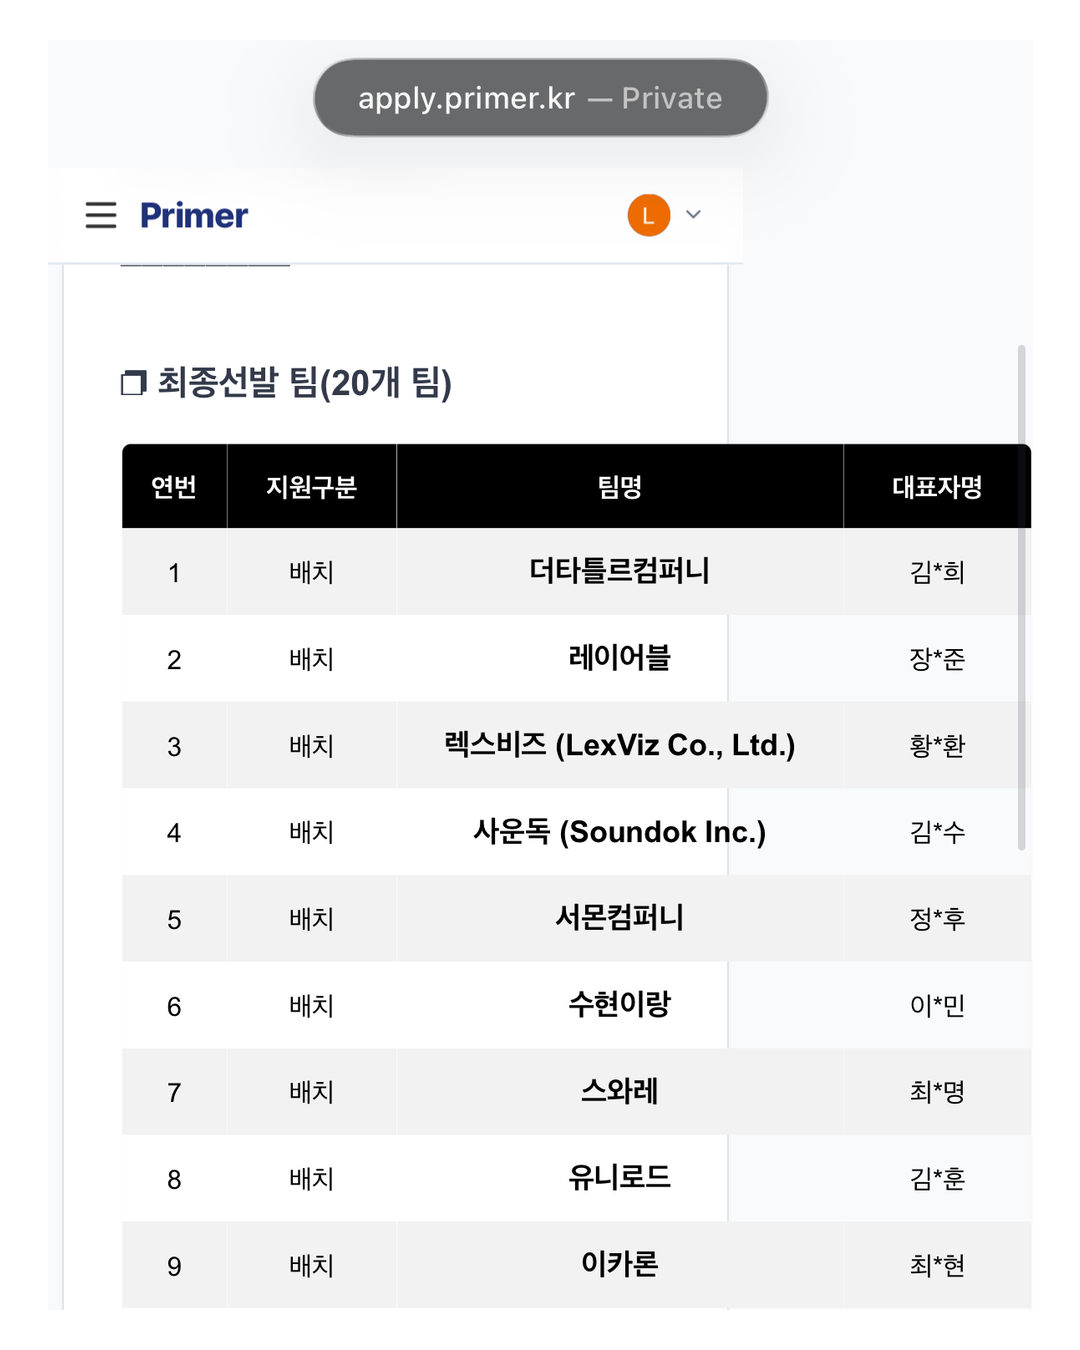
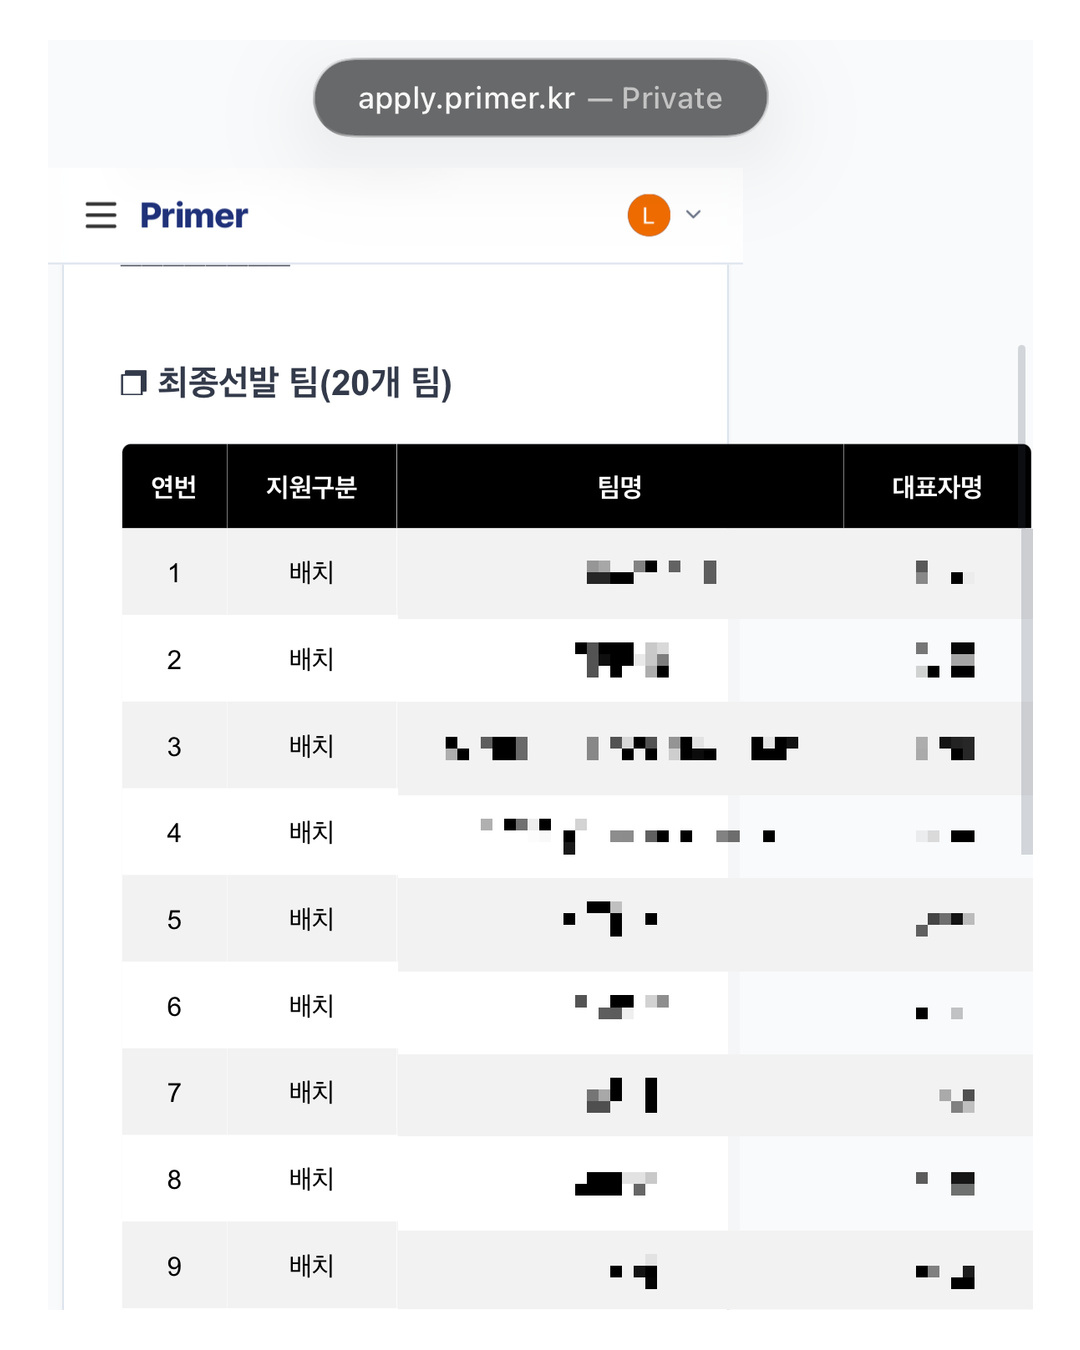
fix(marketing): 캐러셀 1~2 타팀 정보 모자이크
- 팀명·대표자명 컬럼만 픽셀화. 연번·지원구분·헤더·각주·제목은 유지해
  20팀/8팀 개수와 Quest-On 위치(연번 5)가 계속 검증 가능하게 남긴다
- 슬라이드 1: 노출된 9개 행 전부
- 슬라이드 2: 연번 5(Quest-On) 제외 7개 행
- 삭제·순서변경이 아닌 가시적 가림이라 원문 왜곡 아님
- 문서의 종전 '추가 마스킹 금지' 조항을 이 방침으로 대체

diff --git a/marketing/linkedin/posts/2026-08-12-kpi-six-columns.md b/marketing/linkedin/posts/2026-08-12-kpi-six-columns.md
@@ -189,7 +189,7 @@ If grading breaks in the same place for you every term, would you give us 30 min
 | 6 | 신규 | 8/3~9/7 0 행 5줄 + 오른쪽에 붙인 여섯 번째 칸 + `30분만 내주실 수 있을까요` | 결·CTA |
 
 **크롭 원칙:**
-- 1·2번의 다른 팀 이름은 **이미 apply.primer.kr 공개 페이지 내용이라 그대로 둔다.** 대표자명은 원본이 `김*희` 형태로 이미 마스킹돼 있다. **추가 마스킹·삭제·순서 변경 금지** — 손대면 조작이 된다.
+- **타팀 정보는 모자이크한다 (2026-08-09 영준 지시. 종전 「그대로 둔다」 방침을 대체).** 팀명·대표자명 컬럼만 픽셀화하고 **연번·지원구분·표 헤더·각주·제목은 그대로 둔다** — `20개 팀`·`8개 팀`이라는 개수와 우리 위치(연번 5)가 계속 검증 가능해야 하기 때문이다. 슬라이드 1은 노출된 9개 행 전부, 슬라이드 2는 **연번 5(Quest-On)만 남기고 나머지 7행**을 가린다. 삭제나 순서 변경이 아니라 **눈에 보이는 가림 처리**이므로 원문 왜곡이 아니다. 원본이 이미 갖고 있는 `김*희` 형태 마스킹은 그 아래 그대로 남는다.
 - 3번은 **수신자 주소·메일 헤더·계정 정보 반드시 제거.** 발신 서명은 공개 게시글 명의라 유지.
 - 4~6번에 **원본 파일명·발신자·투자 조건·멘토링 운영 세부 금지.** 열 이름과 제약 문구만 재구성하고 `열 구조 재구성, 값은 2026-08-03 주차 실측` 표기.
 - 교수 실명·소속·학생 데이터·시험 코드 0건. 전 슬라이드 대체 텍스트 필수(360Brew가 읽는다).
